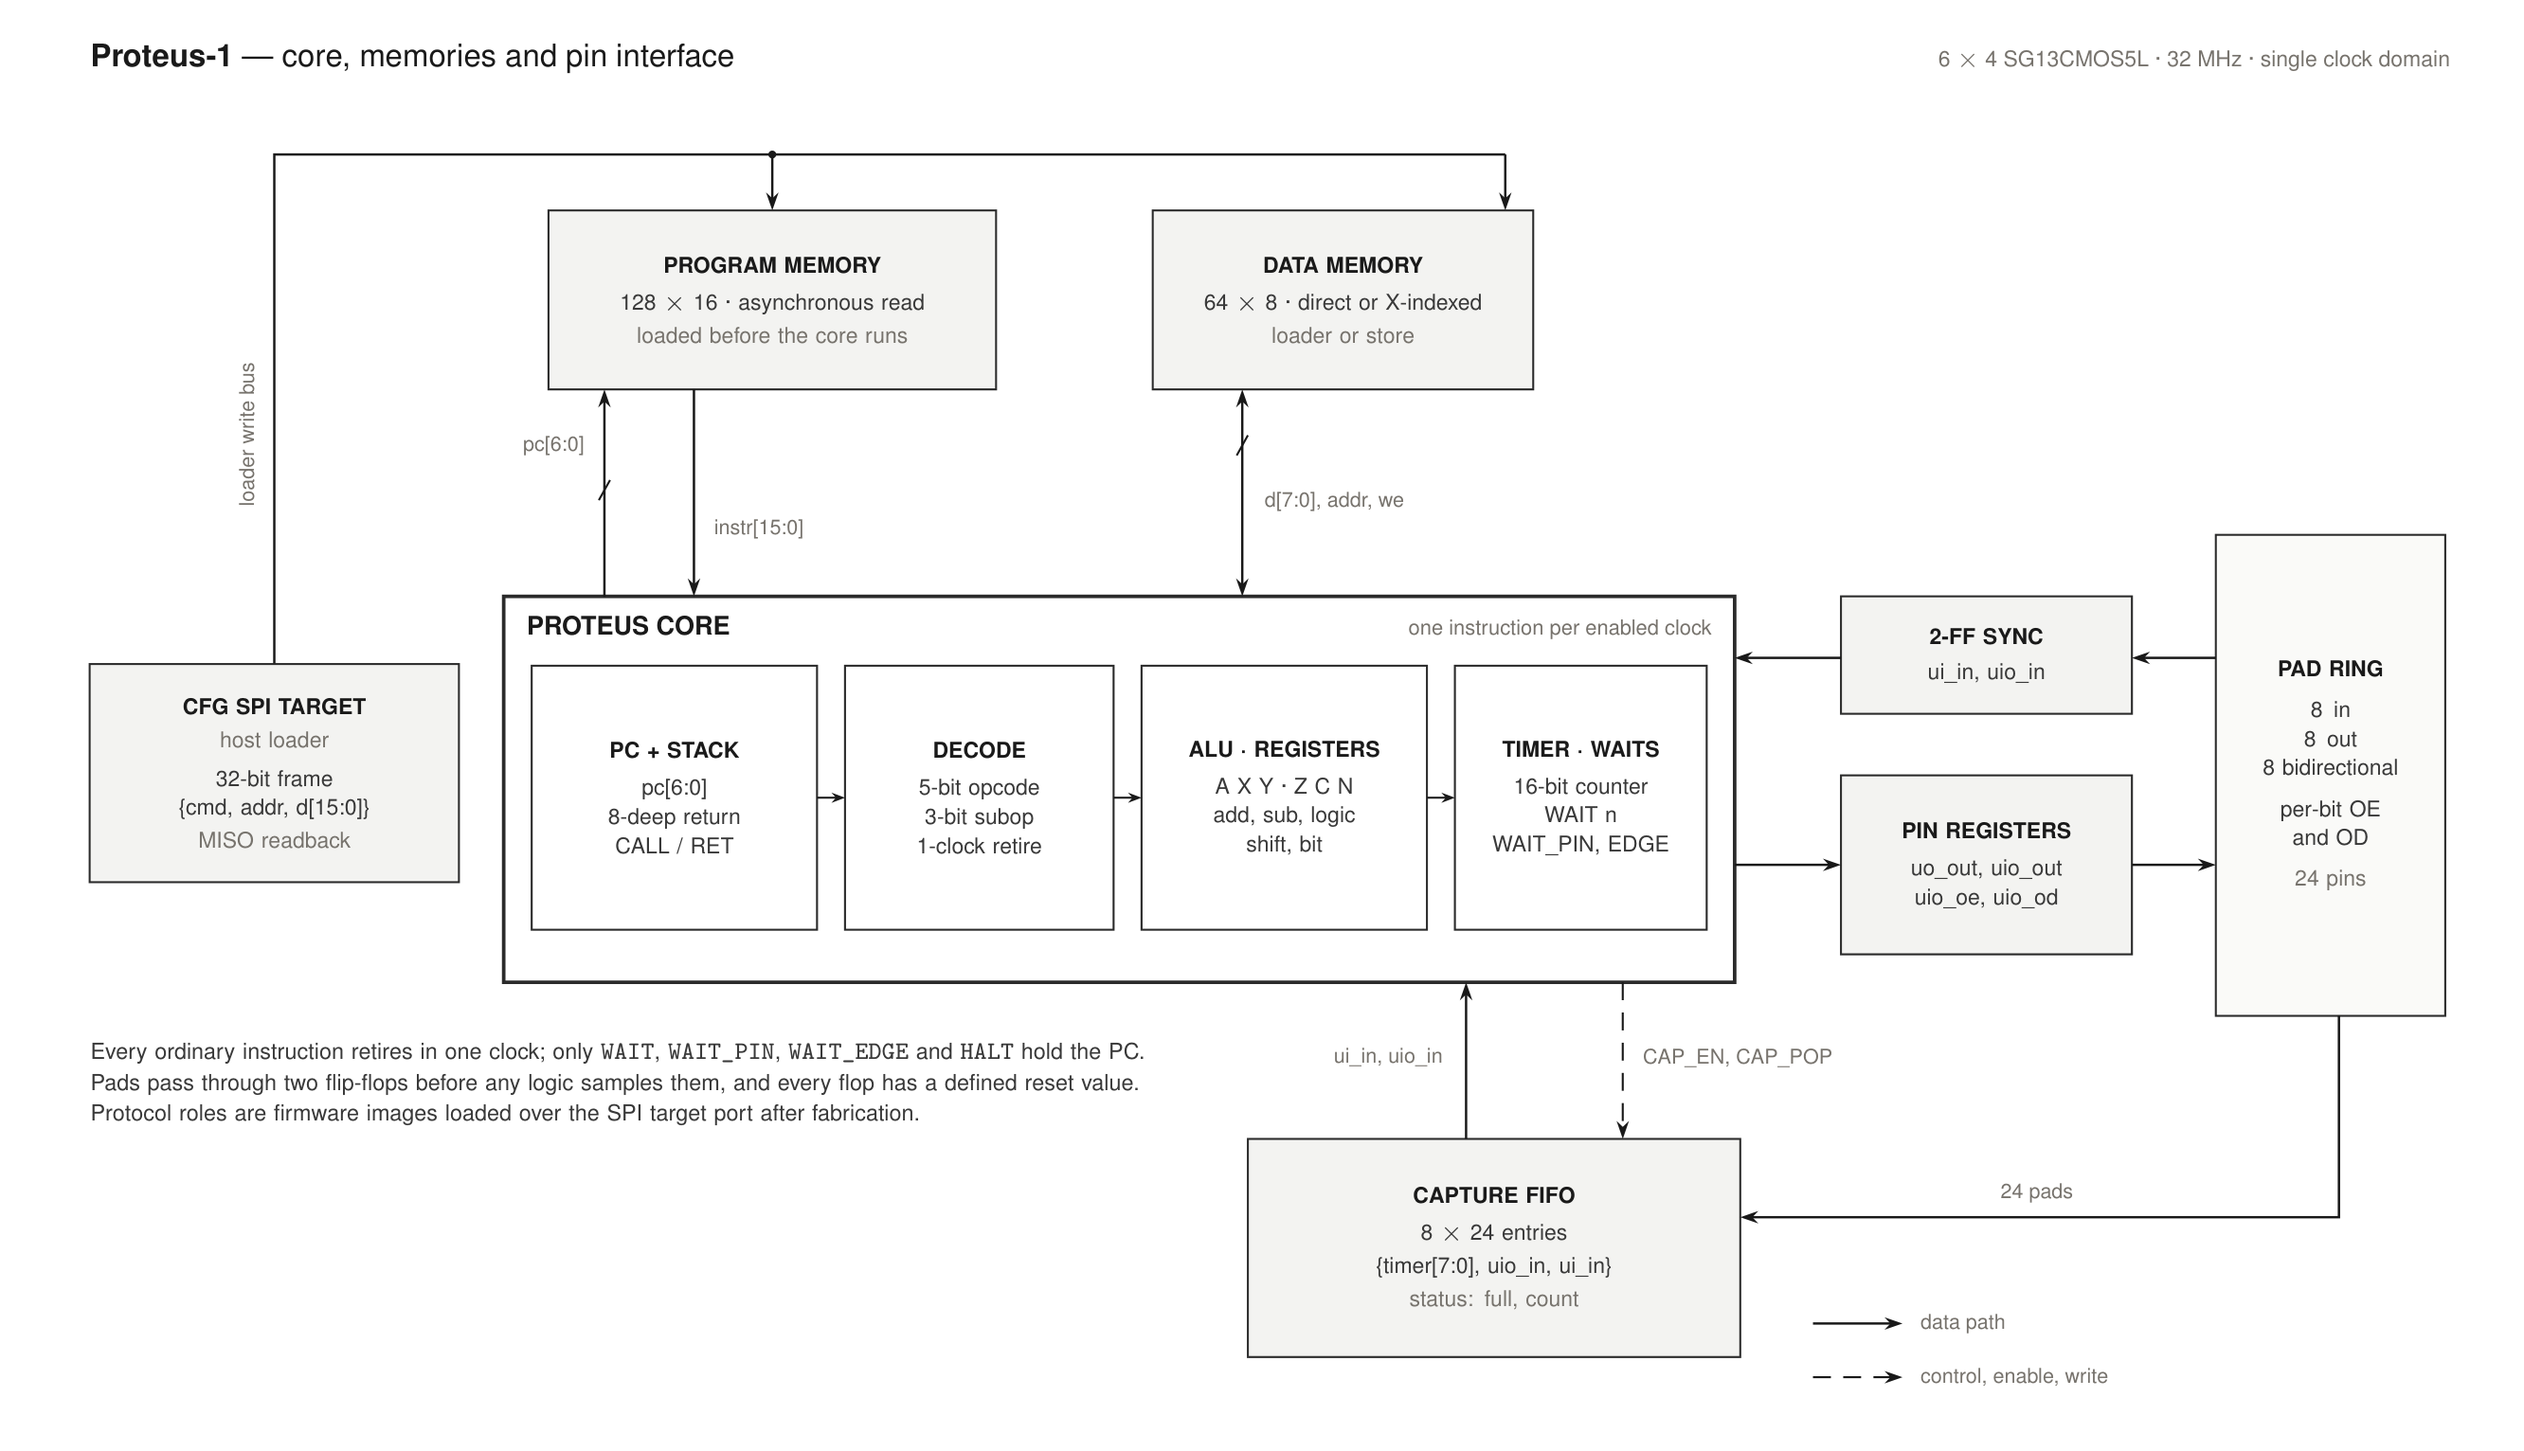
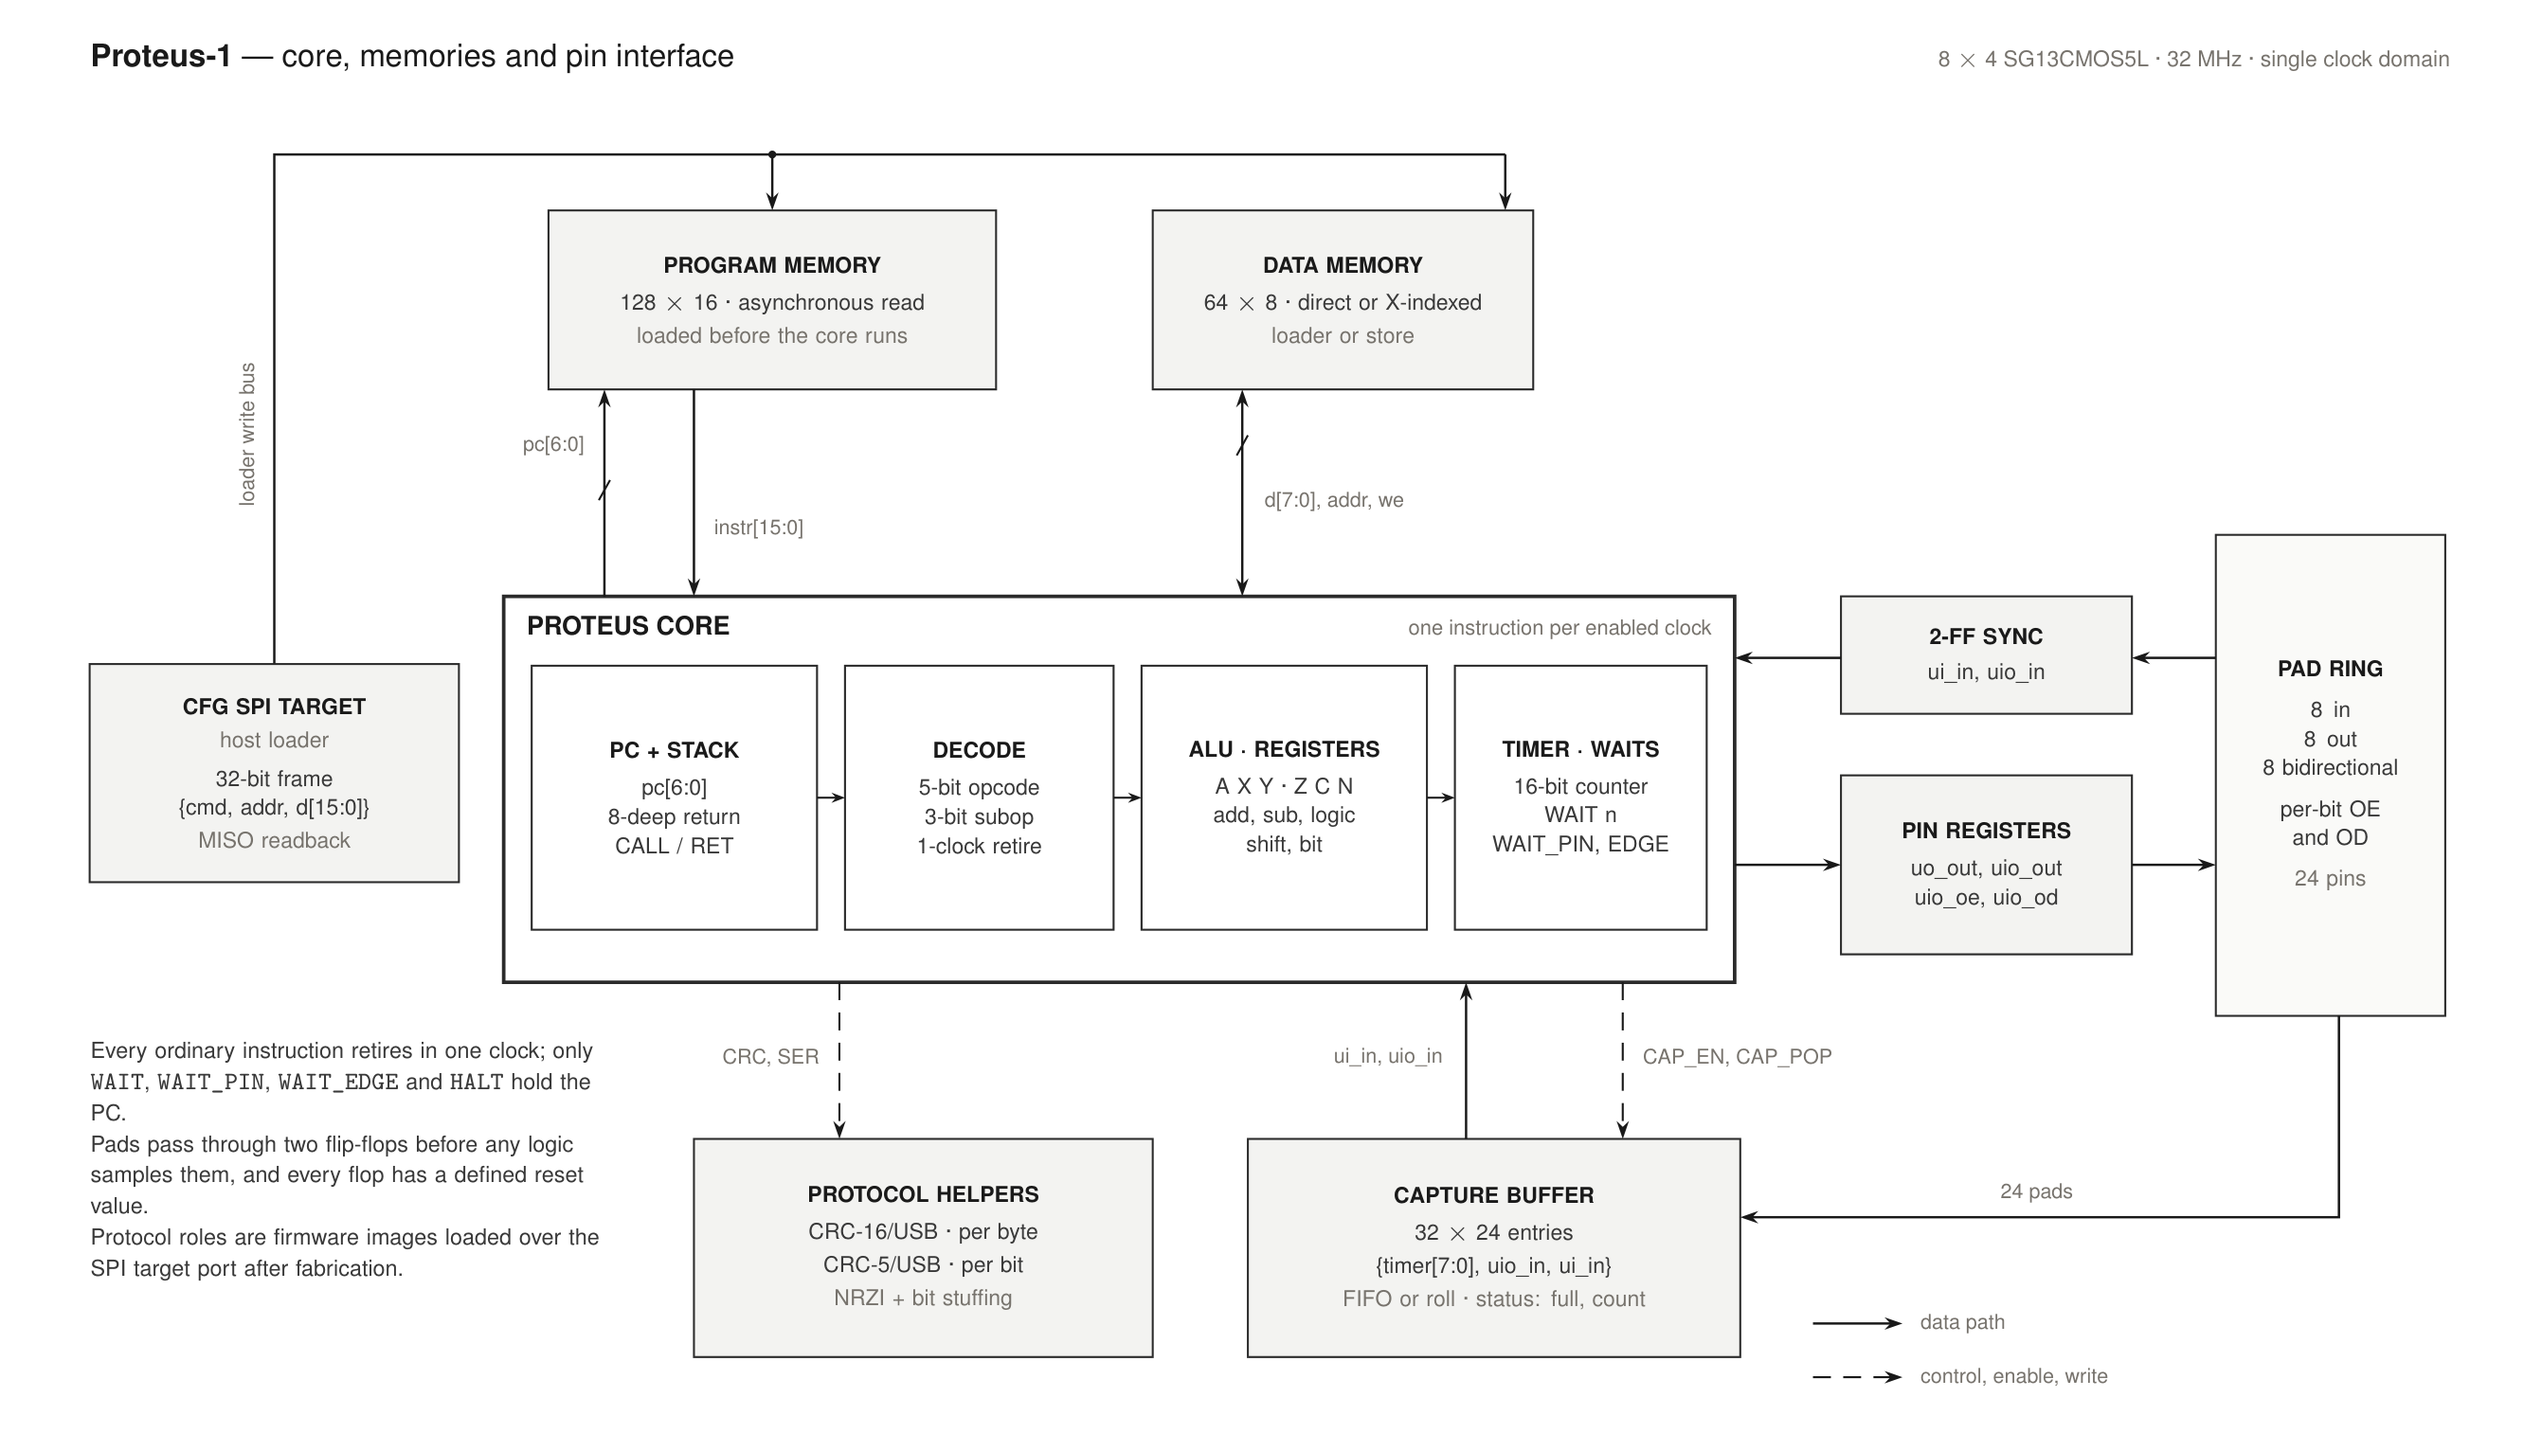
Redraw the block diagram for the 8x4 die and the new blocks
The figure named a 6x4 allocation, an 8-entry capture FIFO, and no CRC or
line-coder block. It now shows the 8x4 die, the 32x24 buffer with its roll mode,
and the protocol helpers with the CRC/SER control net from the core. The
architecture text diagram gets the same line, and the README caption says what is
on the sheet. Proteus-1 is unchanged.

Changed region(s): [[0.0312, 0.7056, 0.4362, 0.9204], [0.5608, 0.7977, 0.6231, 0.859], [0.5297, 0.8897, 0.6543, 0.9204]]

diff --git a/docs/figures/block_diagram.tex b/docs/figures/block_diagram.tex
@@ -61,7 +61,7 @@
 \node[anchor=base west, font=\sffamily\fontsize{9}{10}\selectfont, text=ink, inner sep=0pt]
   at (0.90,13.34) {\bfseries Proteus-1 \textmd{--- core, memories and pin interface}};
 \node[anchor=base east, font=\sffamily\fontsize{6.3}{7.4}\selectfont, text=quiet, inner sep=0pt]
-  at (22.00,13.34) {6 $\times$ 4 SG13CMOS5L \textperiodcentered{} 32 MHz \textperiodcentered{} single clock domain};
+  at (22.00,13.34) {8 $\times$ 4 SG13CMOS5L \textperiodcentered{} 32 MHz \textperiodcentered{} single clock domain};
 
 % =========================================================== host loader (left)
 \node[unit, minimum width=3.30cm, minimum height=1.95cm, text width=3.00cm] (loader) at (2.55,7.02)
@@ -119,12 +119,19 @@
    per-bit OE\\ and OD\\[3pt]
    {\textcolor{quiet}{24 pins}}};
 
+% ===================================================== protocol helpers (below)
+\node[unit, minimum width=4.10cm, minimum height=1.95cm, text width=3.80cm] (helpers) at (8.35,2.775)
+  {{\ttl PROTOCOL HELPERS}\\[2pt]
+   CRC-16/USB \textperiodcentered{} per byte\\[1pt]
+   CRC-5/USB \textperiodcentered{} per bit\\[1pt]
+   {\textcolor{quiet}{NRZI + bit stuffing}}};
+
 % ============================================================= capture (below)
 \node[unit, minimum width=4.40cm, minimum height=1.95cm, text width=4.10cm] (capture) at (13.45,2.775)
-  {{\ttl CAPTURE FIFO}\\[2pt]
-   8 $\times$ 24 entries\\[1pt]
+  {{\ttl CAPTURE BUFFER}\\[2pt]
+   32 $\times$ 24 entries\\[1pt]
    \{timer[7:0], uio\_in, ui\_in\}\\[1pt]
-   {\textcolor{quiet}{status: full, count}}};
+   {\textcolor{quiet}{FIFO or roll \textperiodcentered{} status: full, count}}};
 
 % ======================================================================== nets
 
@@ -160,6 +167,10 @@
 \draw[data] (21.00,4.85) -- (21.00,3.05) -- (15.65,3.05);
 \node[sig, anchor=south] at (18.30,3.12) {24 pads};
 
+% helper opcodes down from the core, and the capture control beside them
+\draw[ctl] (7.60,5.15) -- (7.60,3.75);
+\node[sig, anchor=east] at (7.48,4.48) {CRC, SER};
+
 % capture enable and pop from the core, and the popped entry back
 \draw[ctl] (14.60,5.15) -- (14.60,3.75);
 \node[sig, anchor=west] at (14.72,4.48) {CAP\_EN, CAP\_POP};
@@ -167,7 +178,7 @@
 \node[sig, anchor=east] at (13.05,4.48) {ui\_in, uio\_in};
 
 % ------------------------------------------------------------------- footnotes
-\node[anchor=north west, text width=9.60cm, align=left,
+\node[anchor=north west, text width=4.80cm, align=left,
       font=\sffamily\fontsize{6.4}{7.9}\selectfont, text=body, inner sep=0pt]
   at (0.90,4.62)
   {Every ordinary instruction retires in one clock; only \texttt{WAIT}, \texttt{WAIT\_PIN},

diff --git a/README.md b/README.md
@@ -11,7 +11,7 @@ and time, plus a host loader and a capture FIFO for looking at live buses.
 ![Proteus-1 block diagram: the host loader feeding program and data memory, the
 single-cycle core, pin registers and capture, and the pad ring](docs/images/block_diagram.png)
 
-*One core, two memories, twenty-four pins. Each memory sits directly above the
+*One core, two memories, two protocol helpers, twenty-four pins. Each memory sits directly above the
 core port that addresses it, so every net is a straight stub in a gutter and no
 wire crosses a block. Every arrow is a net that exists in
 [`src/tt_um_proteus.v`](src/tt_um_proteus.v). Source:

diff --git a/docs/architecture.md b/docs/architecture.md
@@ -33,6 +33,7 @@ therefore be written as a timing diagram.
                        │  A, X, Y, PC[6:0], Z/C/N, 8-deep stack│◄── uio_out[7:0]
                        │  ALU, shifts, pin ops, branches       │──► uio_oe[7:0]
                        │  16-bit cycle timer                   │──► uio_od[7:0]
+                       │  CRC-16, CRC-5, NRZI line coder       │
                        │  32 x 24 capture FIFO                 │
                        └───────────────────────────────────────┘
 ```
